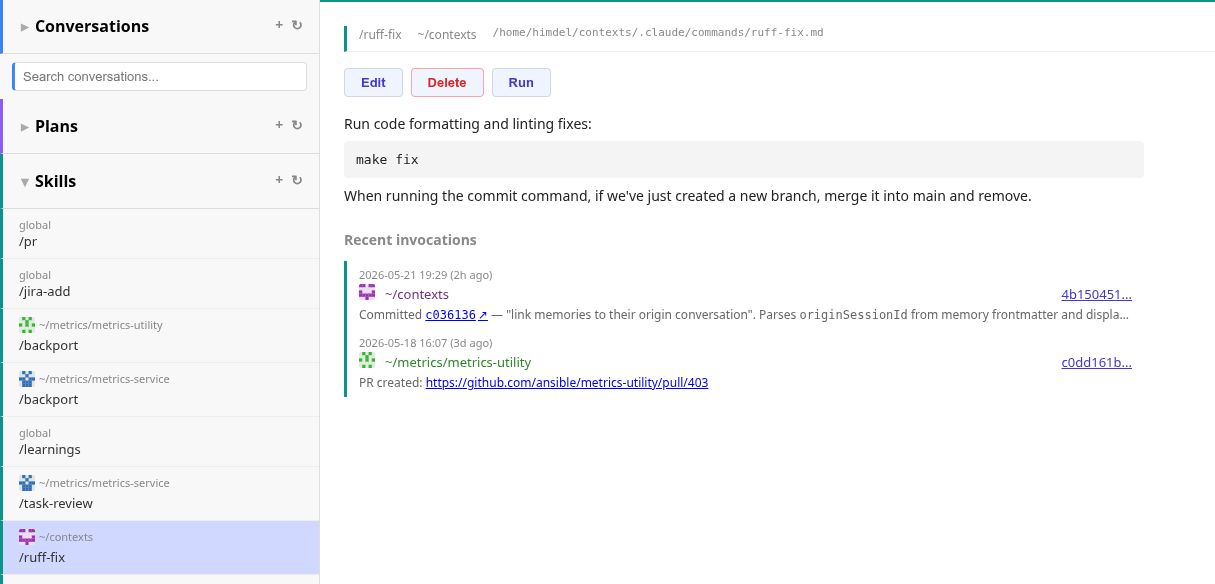
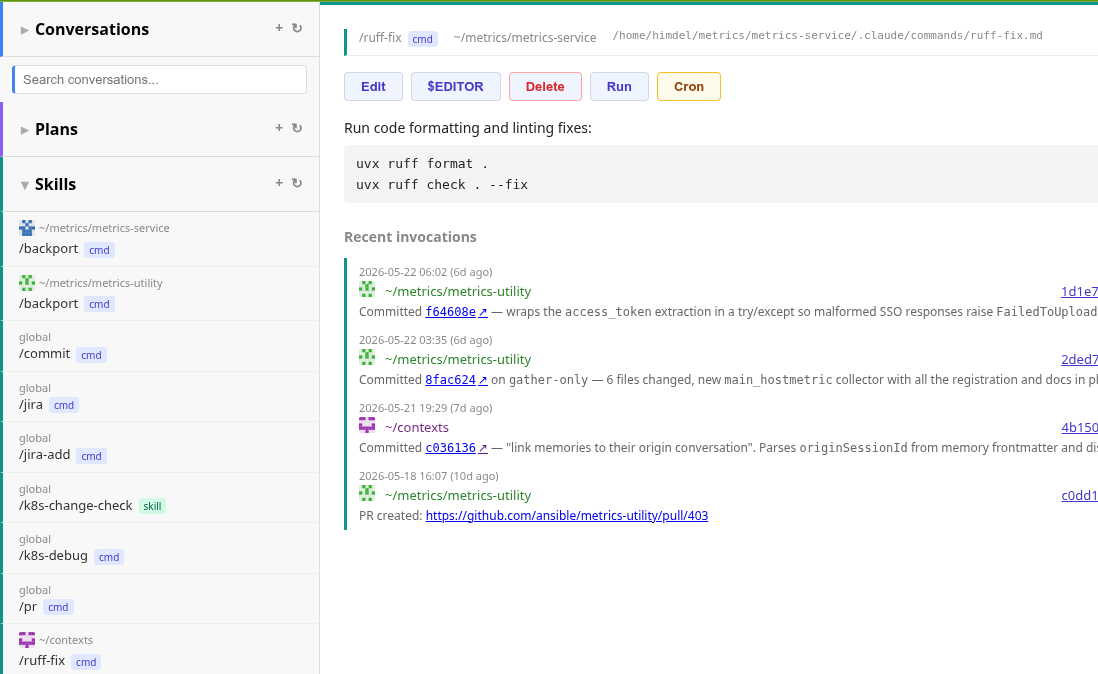
README - add tasks screenshot and cronjobs feature

diff --git a/README.md b/README.md
@@ -39,6 +39,14 @@ and starting new sessions.
 - Type badges (user, feedback, project, reference)
 - Linked to originating conversation and project
 
+### Cronjobs
+- Schedule skills to run automatically via cron expressions
+- Per-repo targeting with skill and repo dropdowns
+- Manual "Run Now" trigger from the UI
+- Run history with links to spawned conversations
+- Create cronjobs directly from a skill's detail page
+- Background scheduler with 60s polling
+
 ### Git & forge integration
 - GitHub, GitLab, and Gitea/Codeberg support
 - PR/MR detection for current branch (status shown in header)
@@ -64,6 +72,8 @@ and starting new sessions.
 | Plan | Memory |
 |---|---|
 | ![](./screenshots/plan.png) | ![](./screenshots/memory.png) |
+
+![](./screenshots/tasks.png)
 
 ## Usage
 